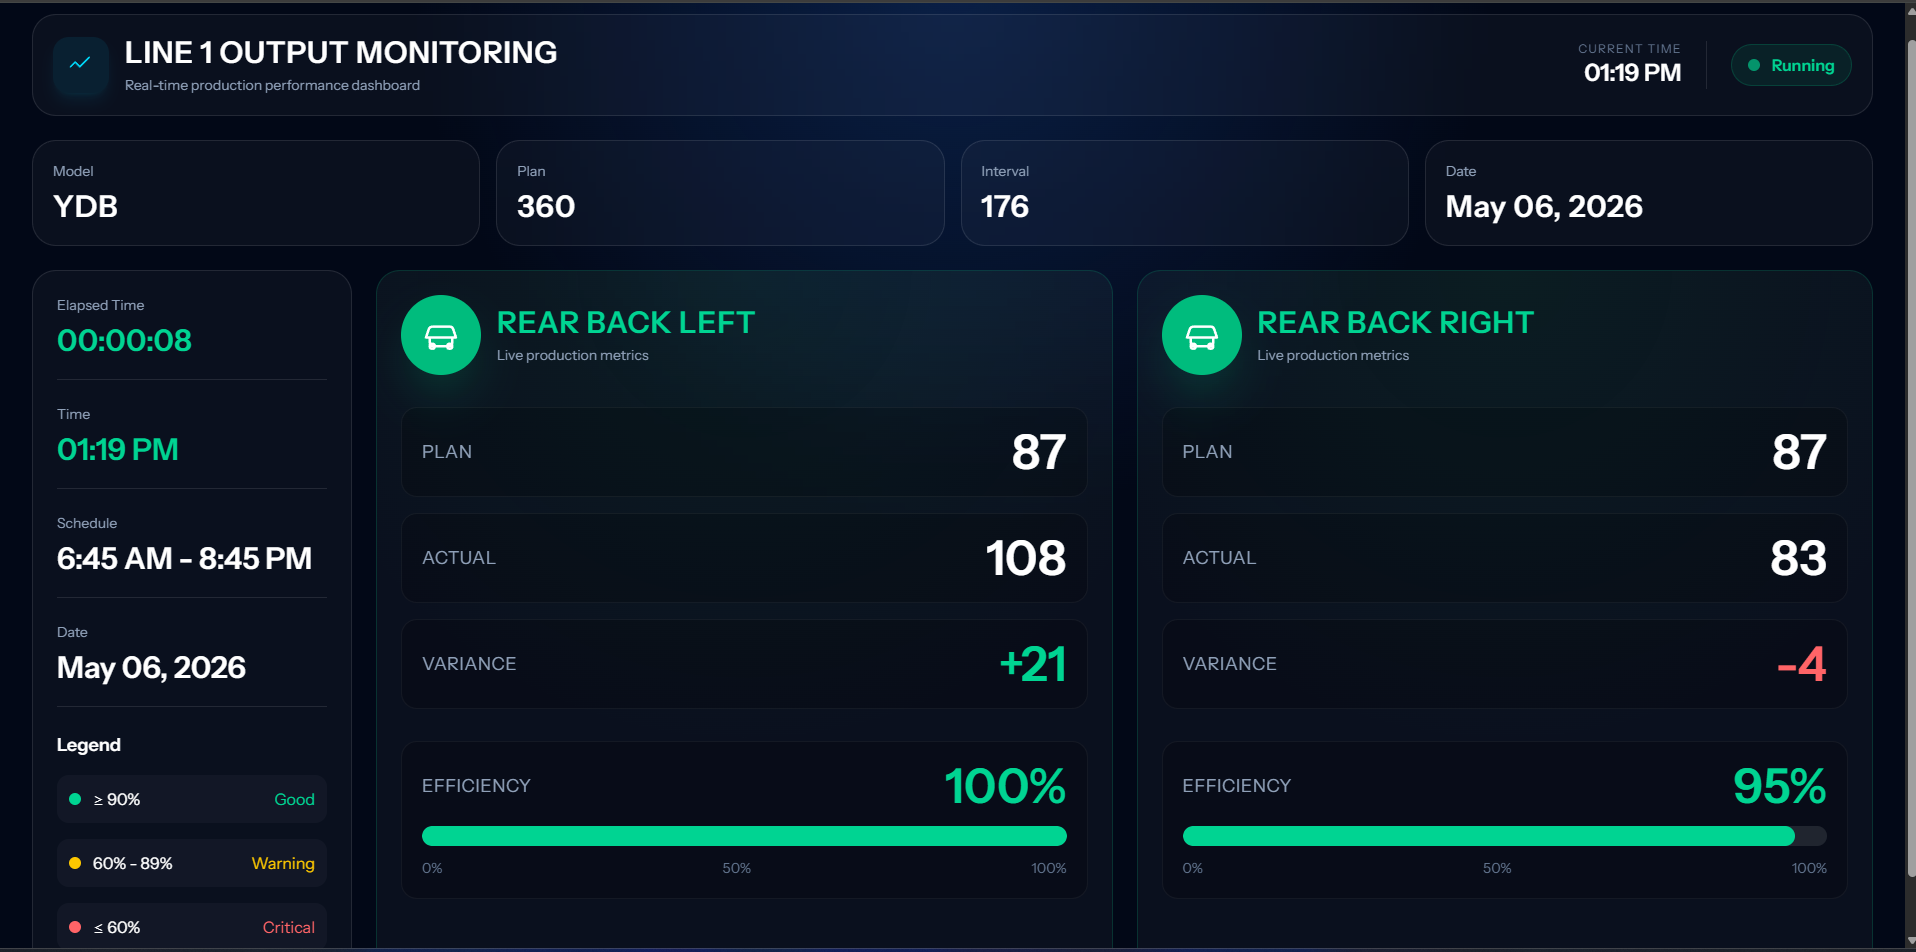
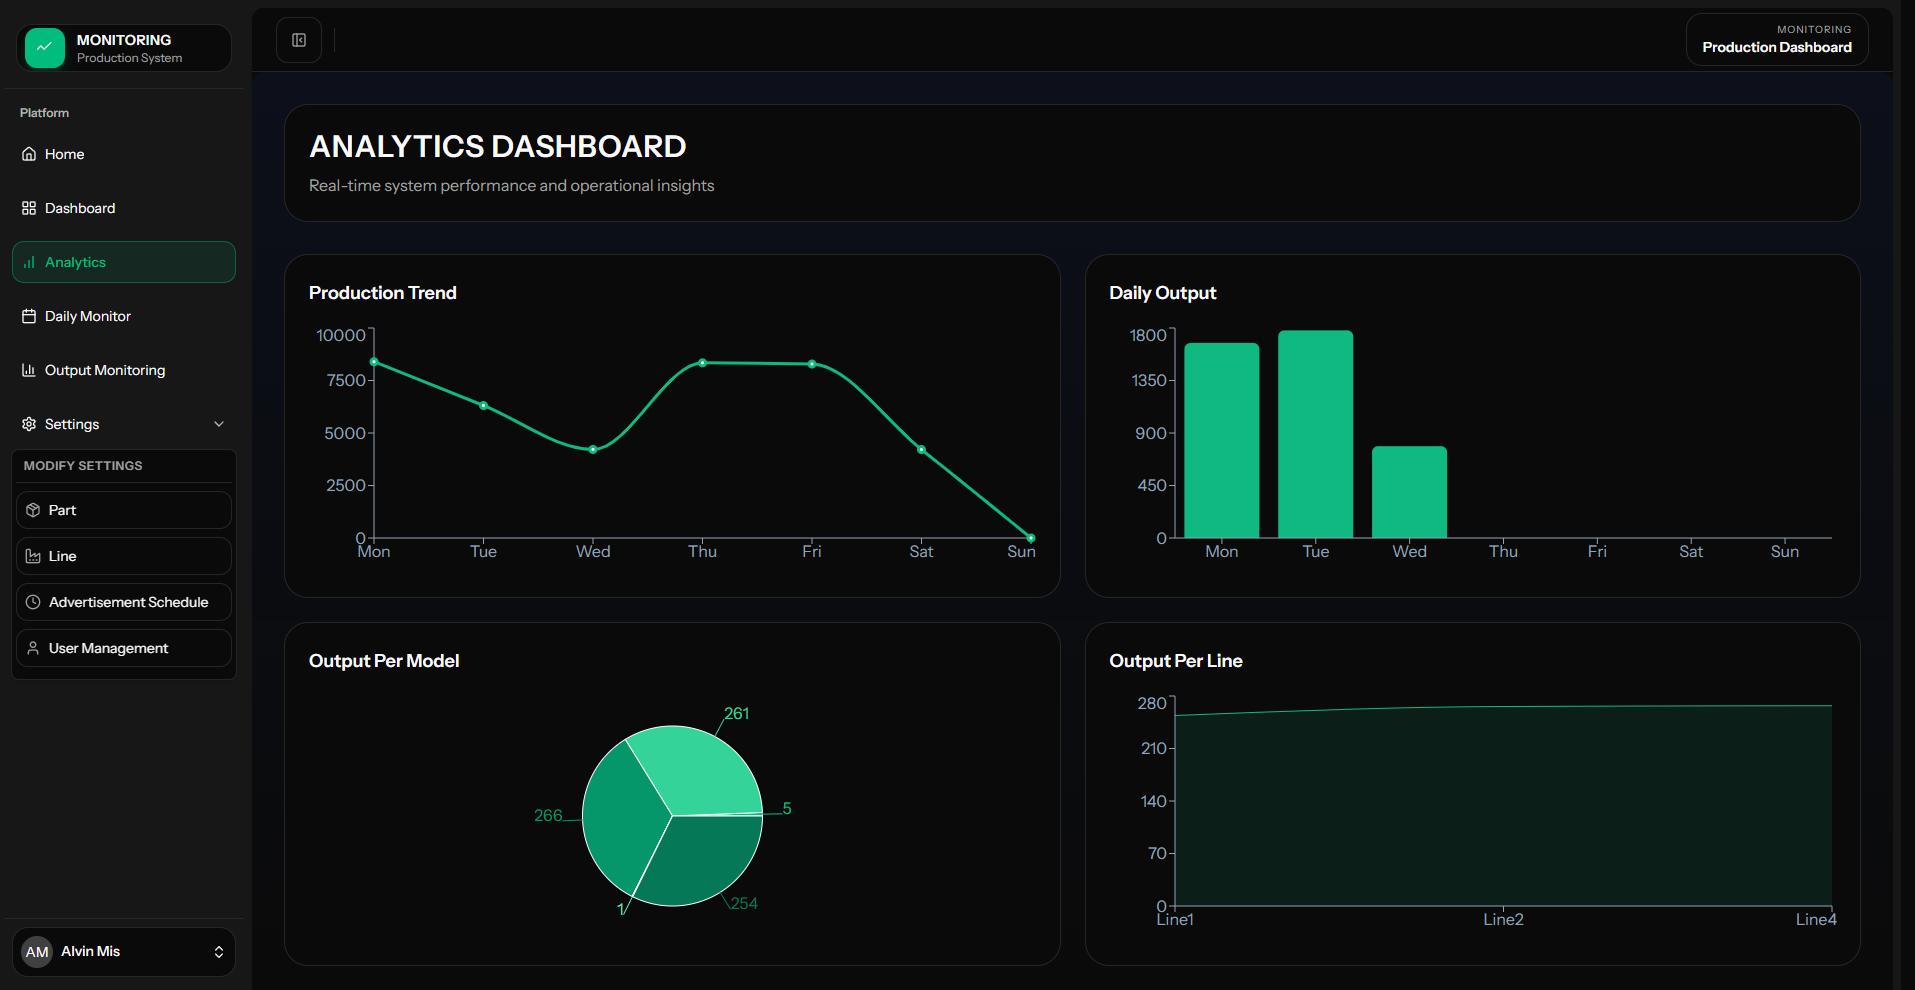
updateUi

diff --git a/app/type/image.ts b/app/type/image.ts
@@ -1,11 +1,6 @@
-import { FaReact } from "react-icons/fa";
-import { IconType } from "react-icons/lib";
-import { FaBootstrap, FaWindows } from "react-icons/fa";
-import { SiDotnet, SiLaravel, SiMysql, SiTailwindcss } from "react-icons/si";
-import { TbBrandCSharp } from "react-icons/tb";
 export type TechStack = {
   name: string;
-  logo: IconType;
+  logo: string;
   color: string;
 };
 export type Project = {
@@ -28,9 +23,9 @@ export const images: Project[] = [
     Overview:
       "A comprehensive system built to manage and track support tickets efficiently from creation to resolution while improving team collaboration, accountability, and response time.",
     techStack: [
-      { name: "ASP.NET (MVC)", logo: SiDotnet, color: "text-purple-500" },
-      { name: "Bootstrap", logo: FaBootstrap, color: "text-purple-600" },
-      { name: "SQL Server", logo: SiMysql, color: "text-blue-600" },
+      { name: "ASP.NET (MVC)", logo: "dotnet", color: "text-purple-500" },
+      { name: "Bootstrap", logo: "bootstrap", color: "text-purple-600" },
+      { name: "SQL Server", logo: "mysql", color: "text-blue-600" },
     ],
   },
 
@@ -44,75 +39,15 @@ export const images: Project[] = [
     Overview:
       "A centralized HR solution that helps organizations efficiently manage employees, attendance, leave requests, and payroll processes while improving productivity and simplifying administrative tasks.",
     techStack: [
-      { name: "React", logo: FaReact, color: "text-sky-500" },
-      { name: "Laravel", logo: SiLaravel, color: "text-red-500" },
-      { name: "SQL Server", logo: SiMysql, color: "text-blue-600" },
-      { name: "Tailwind", logo: SiTailwindcss, color: "text-cyan-400" },
-      { name: "Filament", logo: SiLaravel, color: "text-pink-500" },
+      { name: "React", logo: "react", color: "text-sky-500" },
+      { name: "Laravel", logo: "laravel", color: "text-red-500" },
+      { name: "SQL Server", logo: "mysql", color: "text-blue-600" },
+      { name: "Tailwind", logo: "tailwind", color: "text-cyan-400" },
+      { name: "Filament", logo: "laravel", color: "text-pink-500" },
     ],
   },
-
   {
     ID: 3,
-    image: "/image/Ms1.png",
-    title: "Production Monitoring System",
-    description: "Real-time monitoring of production workflows.",
-    About:
-      "This Production Monitoring System is developed to provide real-time visibility into manufacturing processes by tracking workflow status, machine performance, and production output to ensure efficiency and quick decision-making.",
-    Overview:
-      "A real-time monitoring platform that tracks production workflows, performance metrics, and operational status to help improve efficiency and ensure smooth manufacturing operations.",
-    techStack: [
-      { name: "C# WinForms", logo: TbBrandCSharp, color: "text-purple-600" },
-      { name: "SQL Server", logo: SiMysql, color: "text-blue-600" },
-    ],
-  },
-
-  {
-    ID: 4,
-    image: "/image/PTS.png",
-    title: "Trim Cover Recording System",
-    description: "Record and manage trim cover data for production.",
-    About:
-      "The Trim Cover Recording System is built to accurately record, store, and manage trim cover production data in an organized database, helping ensure consistency, traceability, and efficiency in manufacturing operations.",
-    Overview:
-      "A production data management system designed to record and organize trim cover information efficiently, ensuring accurate tracking and improved production workflow management.",
-    techStack: [
-      { name: "C# WinForms", logo: TbBrandCSharp, color: "text-purple-600" },
-      { name: "SQL Server", logo: SiMysql, color: "text-blue-600" },
-    ],
-  },
-
-  {
-    ID: 5,
-    image: "/image/BLS.png",
-    title: "Box Label Recording System",
-    description: "Record and manage box label data for production.",
-    About:
-      "The Box Label Recording System is designed to digitally capture, store, and manage box label information used in production and logistics processes, ensuring better accuracy, traceability, and organization of labeling data.",
-    Overview:
-      "A system that manages box label records in production environments by digitizing label data to improve tracking accuracy and streamline warehouse and manufacturing operations.",
-    techStack: [
-      { name: "C# WinForms", logo: TbBrandCSharp, color: "text-purple-600" },
-      { name: "SQL Server", logo: SiMysql, color: "text-blue-600" },
-    ],
-  },
-
-  {
-    ID: 6,
-    image: "/image/AiMonitoring.png",
-    title: "Vision Suite Monitoring System",
-    description: "Monitor and manage vision suite data for production.",
-    About:
-      "The Vision Suite Monitoring System is developed to monitor and analyze vision-based inspection data in real time, helping production teams detect issues early, maintain quality standards, and improve overall system reliability.",
-    Overview:
-      "A monitoring system that tracks vision suite data in real time to support quality control processes and enhance production accuracy through continuous data analysis and reporting.",
-    techStack: [
-      { name: "C# WinForms", logo: TbBrandCSharp, color: "text-purple-600" },
-      { name: "SQL Server", logo: SiMysql, color: "text-blue-600" },
-    ],
-  },
-  {
-    ID: 7,
     image: "/image/ouMon.png",
     title: "Line Output Monitoring",
     description: "Monitor and manage vision suite data for production.",
@@ -121,10 +56,69 @@ export const images: Project[] = [
     Overview:
       "A monitoring system that tracks vision suite data in real time to support quality control processes and enhance production accuracy through continuous data analysis and reporting.",
     techStack: [
-      { name: "React", logo: FaReact, color: "text-sky-500" },
-      { name: "Laravel", logo: SiLaravel, color: "text-red-500" },
-      { name: "SQL Server", logo: SiMysql, color: "text-blue-600" },
-      { name: "Tailwind", logo: SiTailwindcss, color: "text-cyan-400" },
+      { name: "React", logo: "react", color: "text-sky-500" },
+      { name: "Laravel", logo: "laravel", color: "text-red-500" },
+      { name: "SQL Server", logo: "mysql", color: "text-blue-600" },
+      { name: "Tailwind", logo: "tailwind", color: "text-cyan-400" },
+    ],
+  },
+  {
+    ID: 4,
+    image: "/image/Ms1.png",
+    title: "Production Monitoring System",
+    description: "Real-time monitoring of production workflows.",
+    About:
+      "This Production Monitoring System is developed to provide real-time visibility into manufacturing processes by tracking workflow status, machine performance, and production output to ensure efficiency and quick decision-making.",
+    Overview:
+      "A real-time monitoring platform that tracks production workflows, performance metrics, and operational status to help improve efficiency and ensure smooth manufacturing operations.",
+    techStack: [
+      { name: "C# WinForms", logo: "csharp", color: "text-purple-600" },
+      { name: "SQL Server", logo: "mysql", color: "text-blue-600" },
+    ],
+  },
+
+  {
+    ID: 5,
+    image: "/image/PTS.png",
+    title: "Trim Cover Recording System",
+    description: "Record and manage trim cover data for production.",
+    About:
+      "The Trim Cover Recording System is built to accurately record, store, and manage trim cover production data in an organized database, helping ensure consistency, traceability, and efficiency in manufacturing operations.",
+    Overview:
+      "A production data management system designed to record and organize trim cover information efficiently, ensuring accurate tracking and improved production workflow management.",
+    techStack: [
+      { name: "C# WinForms", logo: "csharp", color: "text-purple-600" },
+      { name: "SQL Server", logo: "mysql", color: "text-blue-600" },
+    ],
+  },
+
+  {
+    ID: 6,
+    image: "/image/BLS.png",
+    title: "Box Label Recording System",
+    description: "Record and manage box label data for production.",
+    About:
+      "The Box Label Recording System is designed to digitally capture, store, and manage box label information used in production and logistics processes, ensuring better accuracy, traceability, and organization of labeling data.",
+    Overview:
+      "A system that manages box label records in production environments by digitizing label data to improve tracking accuracy and streamline warehouse and manufacturing operations.",
+    techStack: [
+      { name: "C# WinForms", logo: "csharp", color: "text-purple-600" },
+      { name: "SQL Server", logo: "mysql", color: "text-blue-600" },
+    ],
+  },
+
+  {
+    ID: 7,
+    image: "/image/AiMonitoring.png",
+    title: "Vision Suite Monitoring System",
+    description: "Monitor and manage vision suite data for production.",
+    About:
+      "The Vision Suite Monitoring System is developed to monitor and analyze vision-based inspection data in real time, helping production teams detect issues early, maintain quality standards, and improve overall system reliability.",
+    Overview:
+      "A monitoring system that tracks vision suite data in real time to support quality control processes and enhance production accuracy through continuous data analysis and reporting.",
+    techStack: [
+      { name: "C# WinForms", logo: "csharp", color: "text-purple-600" },
+      { name: "SQL Server", logo: "mysql", color: "text-blue-600" },
     ],
   },
 ];

diff --git a/app/components/ProjectDetails.tsx b/app/components/ProjectDetails.tsx
@@ -1,10 +1,25 @@
+"use client";
+import { useState } from "react";
 import { Project } from "../type/image";
+import { FaReact, FaBootstrap } from "react-icons/fa";
+import { SiDotnet, SiLaravel, SiMysql, SiTailwindcss } from "react-icons/si";
+import { TbBrandCSharp } from "react-icons/tb";
 
+const icons: Record<string, any> = {
+  react: FaReact,
+  bootstrap: FaBootstrap,
+  dotnet: SiDotnet,
+  laravel: SiLaravel,
+  mysql: SiMysql,
+  tailwind: SiTailwindcss,
+  csharp: TbBrandCSharp,
+};
 type Props = {
   project: Project;
 };
 
 export default function ProjectDetails({ project }: Props) {
+  const [preview, setPreview] = useState(false);
   return (
     <div className="min-h-screen bg-background text-foreground px-6 transition-colors duration-300">
       {/* HEADER */}
@@ -50,10 +65,31 @@ export default function ProjectDetails({ project }: Props) {
             <img
               src={project.image}
               alt={project.title}
-              className="w-full h-full object-cover"
+              className="w-full h-full object-cover cursor-pointer hover:scale-105 transition-transform duration-300"
+              onClick={() => setPreview(true)}
             />
           </div>
+          {preview && (
+            <div
+              className="bg-opacity-70 fixed inset-0 z-50 flex items-center justify-center bg-black"
+              onClick={() => setPreview(false)}
+            >
+              <img
+                src={project.image}
+                alt=""
+                className="max-h-[90%] max-w-[90%] rounded-lg shadow-lg"
+                onClick={(e) => e.stopPropagation()}
+              />
 
+              {/* Close Button */}
+              <button
+                className="absolute top-5 right-5 text-2xl text-white"
+                onClick={() => setPreview(false)}
+              >
+                ✕
+              </button>
+            </div>
+          )}
           {/* CONTENT */}
           <div>
             <span
@@ -78,22 +114,19 @@ export default function ProjectDetails({ project }: Props) {
               </h3>
 
               <div className="flex flex-wrap gap-2">
-                {project.techStack?.map((tech, index) => (
-                  <span
-                    key={index}
-                    className="
-                      px-3 py-1 text-sm
-                      bg-muted
-                      border border-border
-                      rounded-full
-                      flex items-center gap-1
-                      transition-colors
-                    "
-                  >
-                    <tech.logo className={tech.color} />
-                    {tech.name}
-                  </span>
-                ))}
+                {project.techStack?.map((tech, index) => {
+                  const Icon = icons[tech.logo];
+
+                  return (
+                    <span
+                      key={index}
+                      className="flex items-center gap-1 px-3 py-1 text-sm bg-muted border border-border rounded-full"
+                    >
+                      {Icon && <Icon className={tech.color} />}
+                      {tech.name}
+                    </span>
+                  );
+                })}
               </div>
             </div>
           </div>
